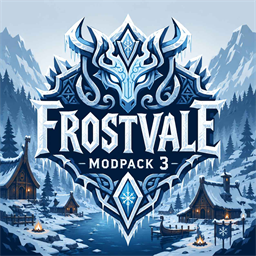
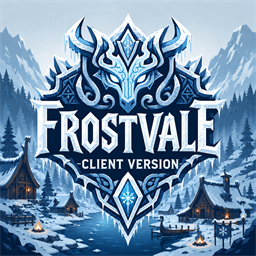
Update client package artwork

diff --git a/packages/client/FrostVale_ClientPack_3/README.md b/packages/client/FrostVale_ClientPack_3/README.md
@@ -1,4 +1,4 @@
-![FrostVale ClientPack 3](assets/Frostvale_Modepack_3.jpg)
+![FrostVale ClientPack 3](assets/Frostvale_ClientPack_3.png)
 
 # FrostVale ClientPack 3
 
